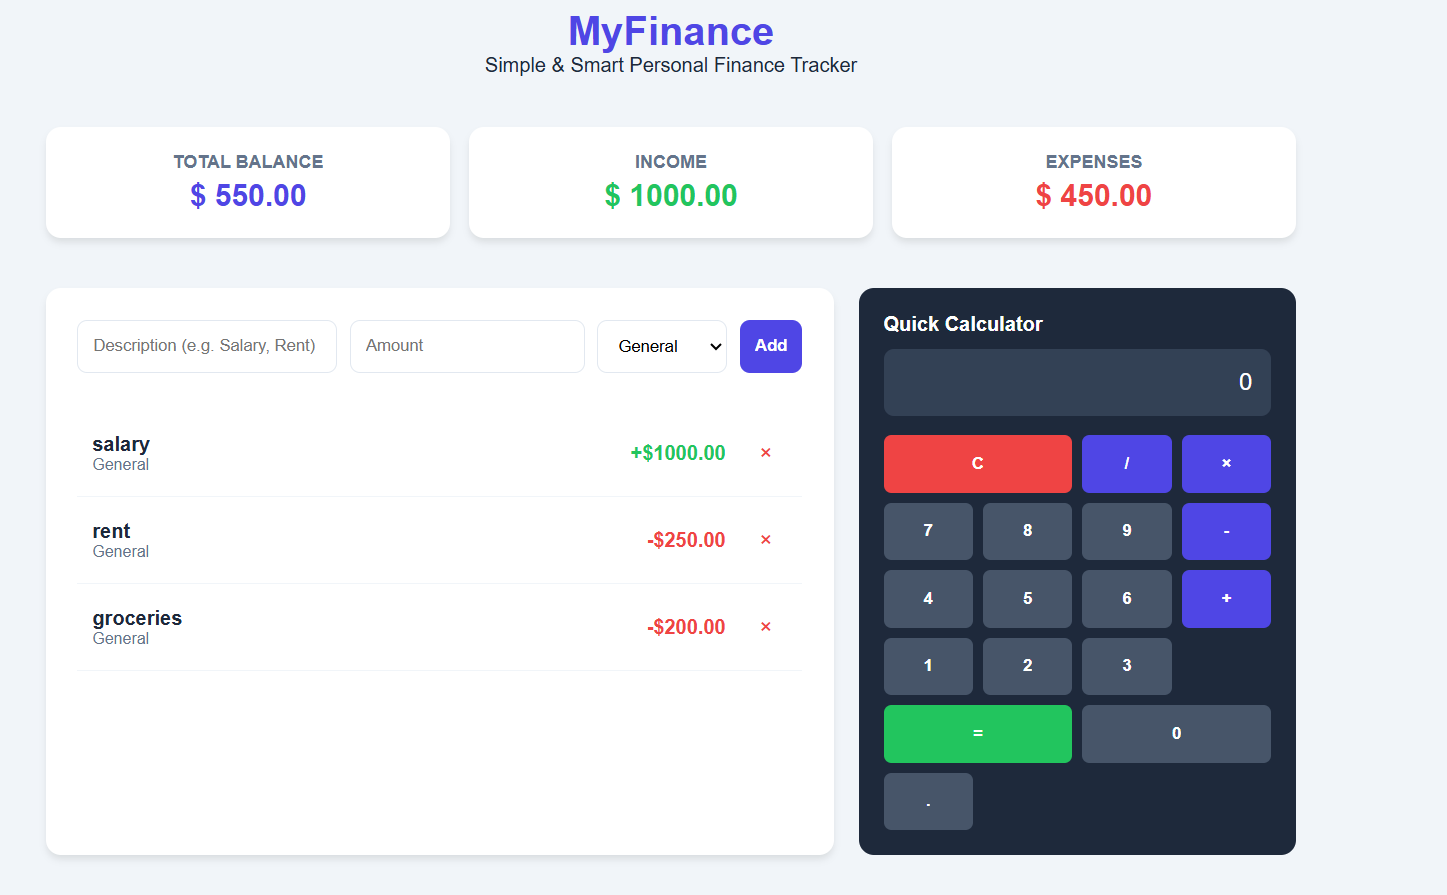
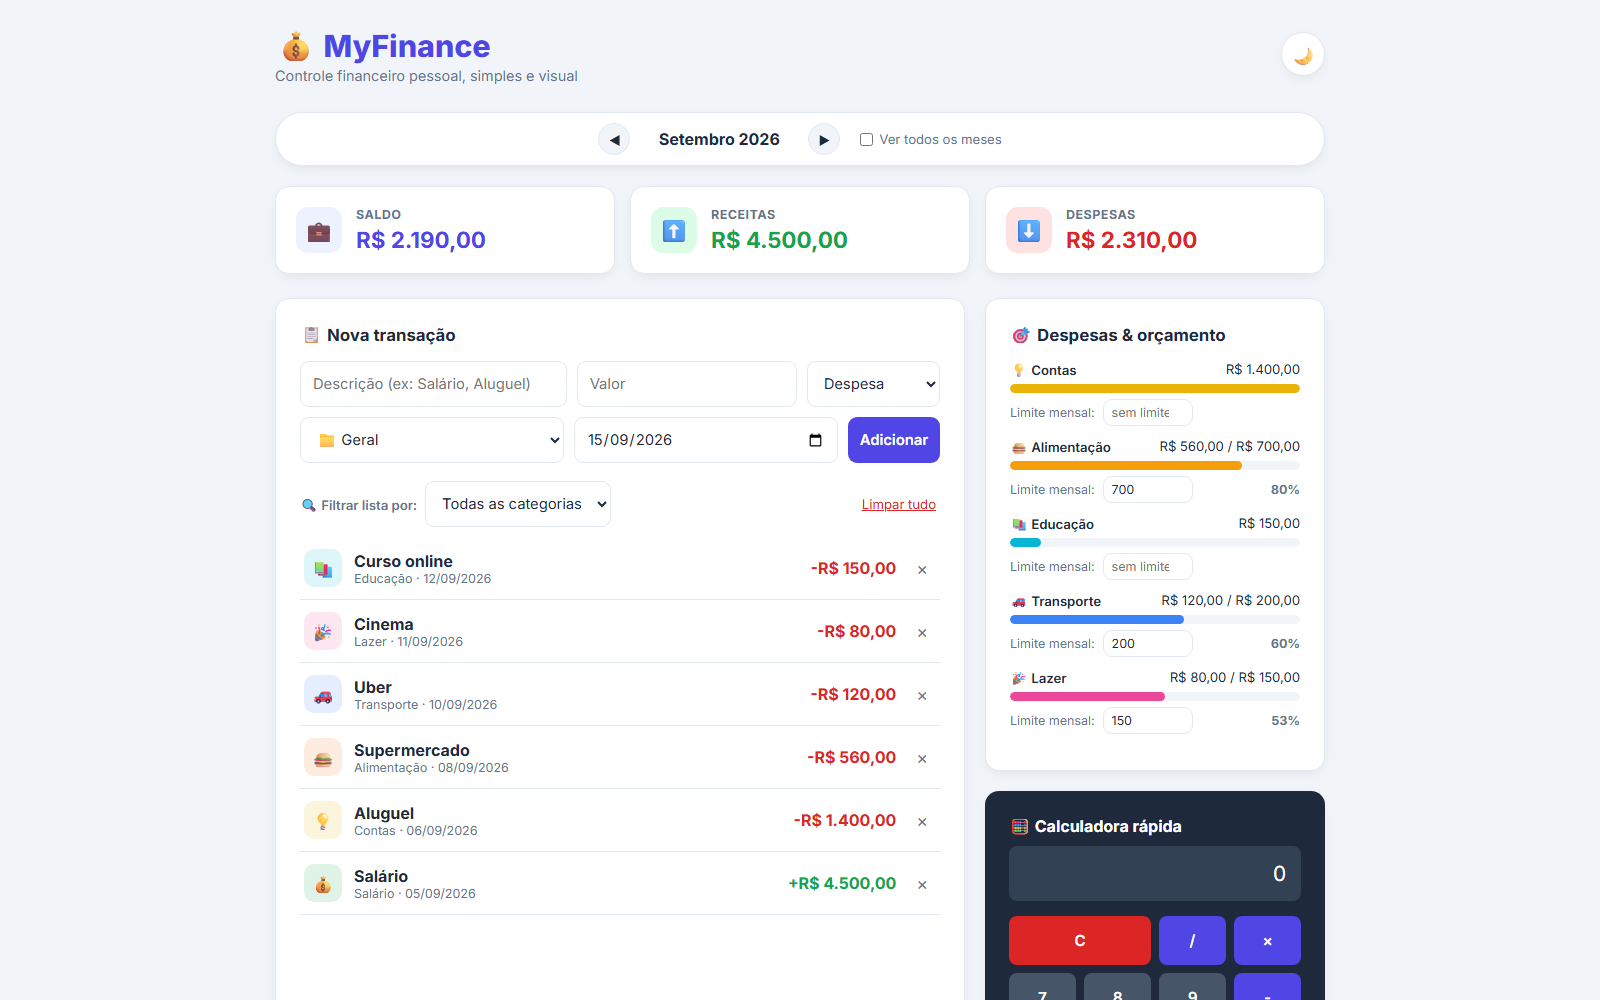
Atualizar card do MyFinance: novo print, link do site e link certo do GitHub
O card apontava para o repositorio errado (my-finance em vez de
my-finance-tracker) e o print estava desatualizado (versao antiga,
sem orcamento por categoria). Adicionado botao "Ver Site" com o link
publicado no Netlify.

diff --git a/projects.html b/projects.html
@@ -45,9 +45,12 @@
                 <div class="project-image">
                     <img src="assets/myfinanceprtscreen.png" alt="Tela do projeto My Finance">
                 </div>
-                <h3>My Finance</h3>
-                <p>Uma aplicação de controle financeiro para gerenciar receitas e despesas.</p>
-                <button class="nav-button" onclick="window.open('https://github.com/gabriela-matsas/my-finance', '_blank')">Ver Código</button>
+                <h3>MyFinance</h3>
+                <p>Aplicação de controle financeiro pessoal, com orçamento por categoria, filtro por mês e calculadora embutida.</p>
+                <div style="display:flex; gap:10px; flex-wrap:wrap;">
+                    <button class="nav-button" onclick="window.open('https://minhasfinancastracker.netlify.app/', '_blank')">Ver Site</button>
+                    <button class="nav-button" onclick="window.open('https://github.com/gabriela-matsas/my-finance-tracker', '_blank')">Ver Código</button>
+                </div>
             </div>
 
             <div class="project-item">
